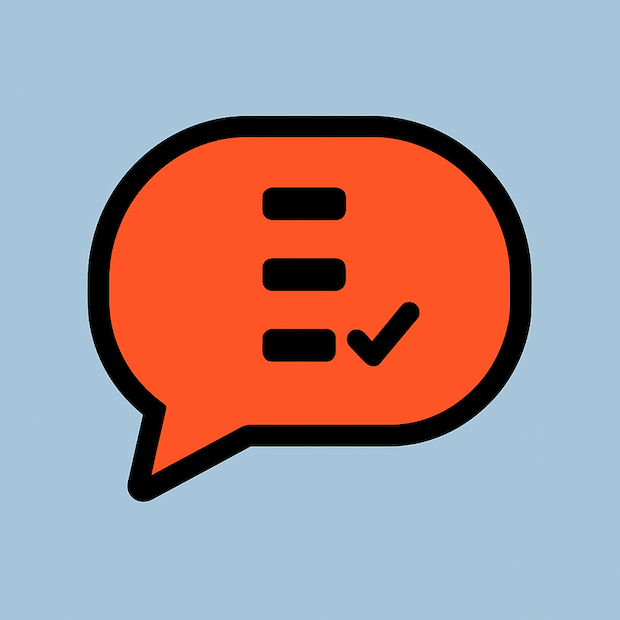
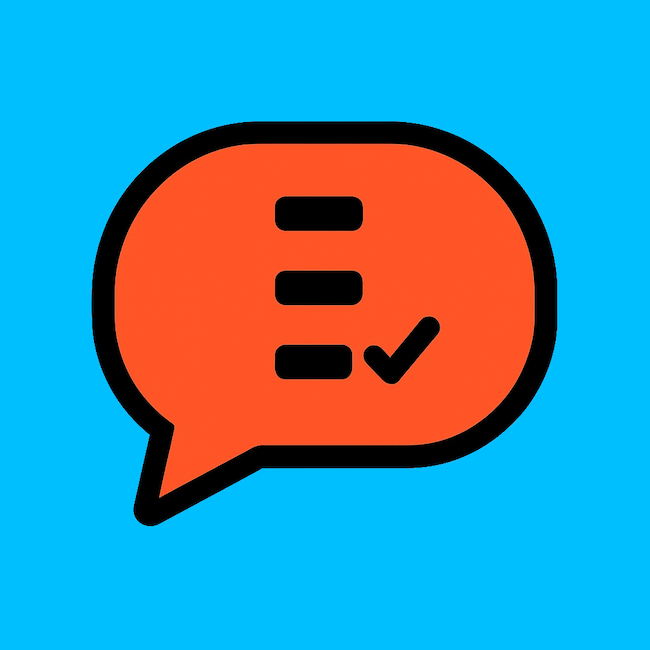
0.2.6

diff --git a/README.md b/README.md
@@ -61,7 +61,7 @@ Resources are **not** backed up anywhere, so if you need to uninstall and reinst
 
 ## Changelog
 
-### [0.2.5] Initial version (2026-05-20)
+### [0.2.6] Initial version (2026-05-20)
 
 #### Features
 